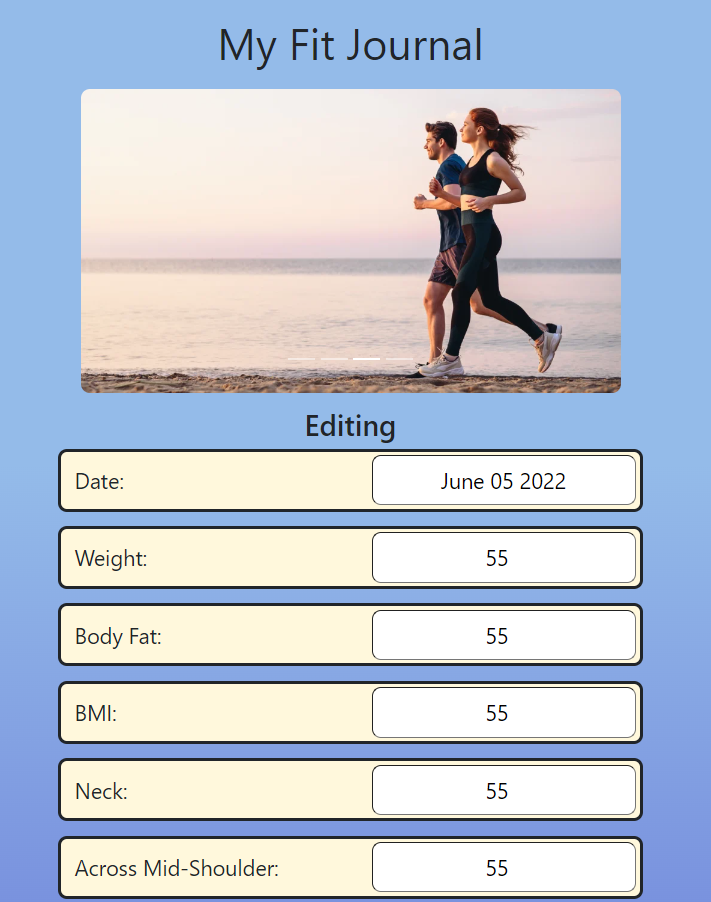
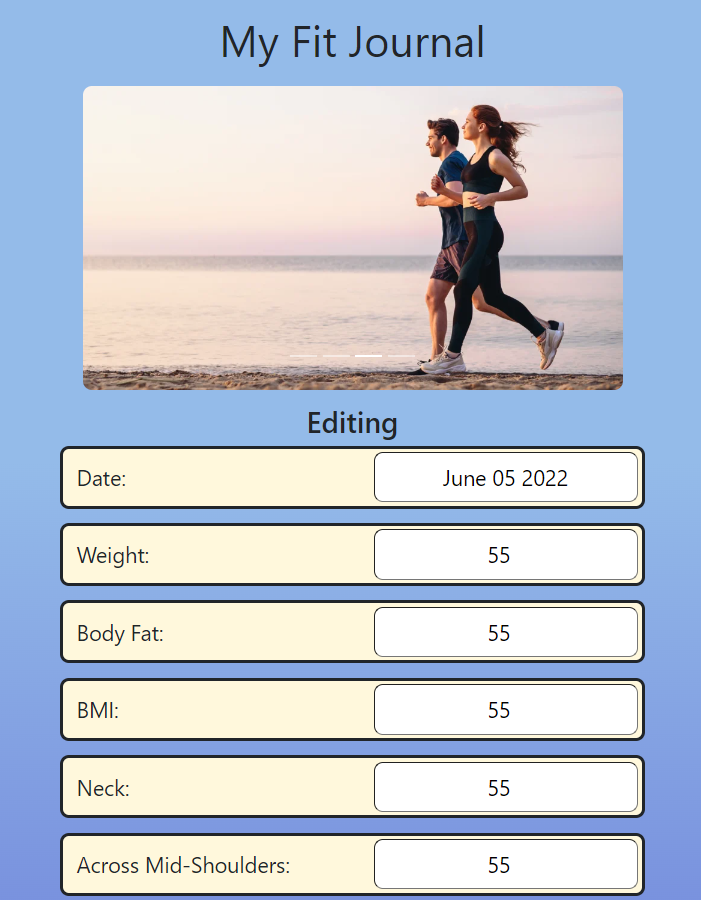
Updated README and a typo in the editing component

Changed region(s): [[0.0599, 0.0311, 0.9287, 1.0], [0.3894, 0.28, 0.4793, 0.3111], [0.5093, 0.28, 0.5392, 0.3111]]

diff --git a/src/components/EditMeasurement.js b/src/components/EditMeasurement.js
@@ -45,7 +45,7 @@ export default function EditMeasurement() {
                 <div className="edits">Body Fat:<input className="edits-input" type='number' name='bodyFat' placeholder="%" defaultValue={data.bodyFat} /></div>
                 <div className="edits">BMI:<input className="edits-input" type='number' name='bmi' placeholder="#" defaultValue={data.bmi} /></div>
                 <div className="edits">Neck:<input className="edits-input" type='number' name='neck' placeholder="inches" defaultValue={data.neck} /></div>
-                <div className="edits">Across Mid-Shoulder:<input className="edits-input" type='number' name='acrossMidShoulder' placeholder="inches" defaultValue={data.acrossMidShoulder} /></div>
+                <div className="edits">Across Mid-Shoulders:<input className="edits-input" type='number' name='acrossMidShoulder' placeholder="inches" defaultValue={data.acrossMidShoulder} /></div>
                 <div className="edits">Upper Chest:<input className="edits-input" type='number' name='upperChest' placeholder="inches" defaultValue={data.upperChest} /></div>
                 <div className="edits">Bicep:<input className="edits-input" type='number' name='bicep' placeholder="inches" defaultValue={data.bicep} /></div>
                 <div className="edits">Forearm:<input className="edits-input" type='number' name='forearm' placeholder="inches" defaultValue={data.forearm} /></div>
